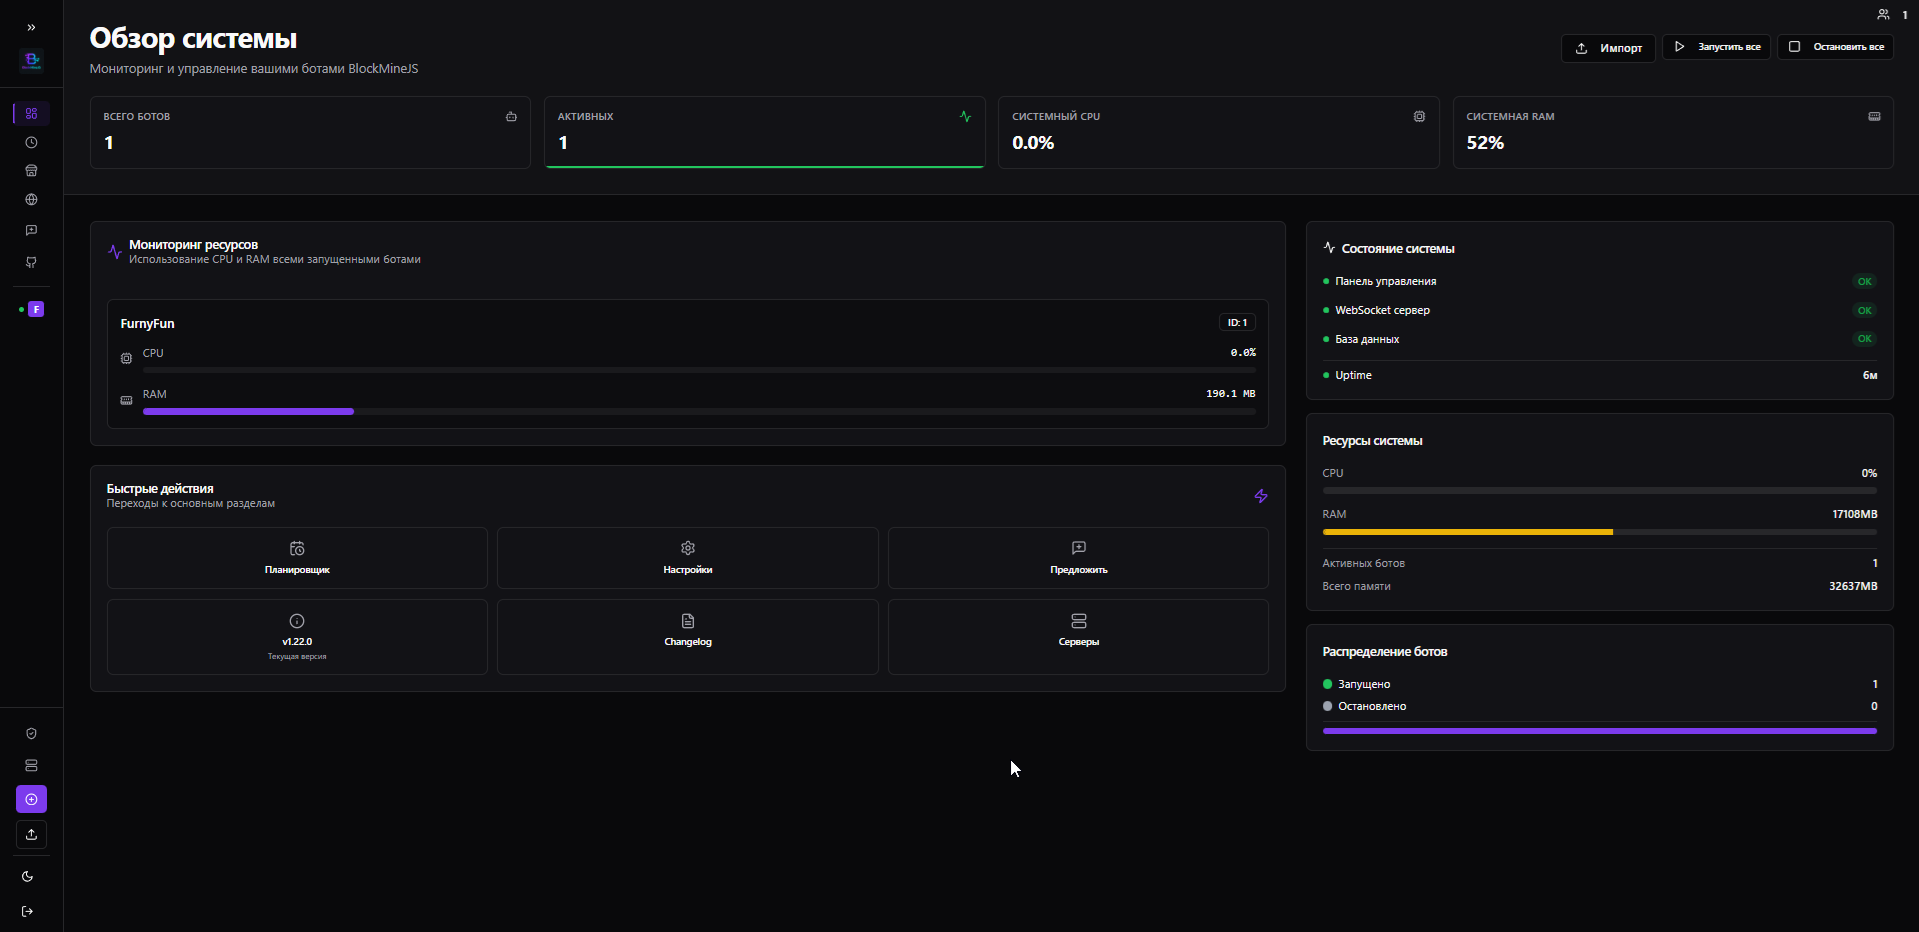
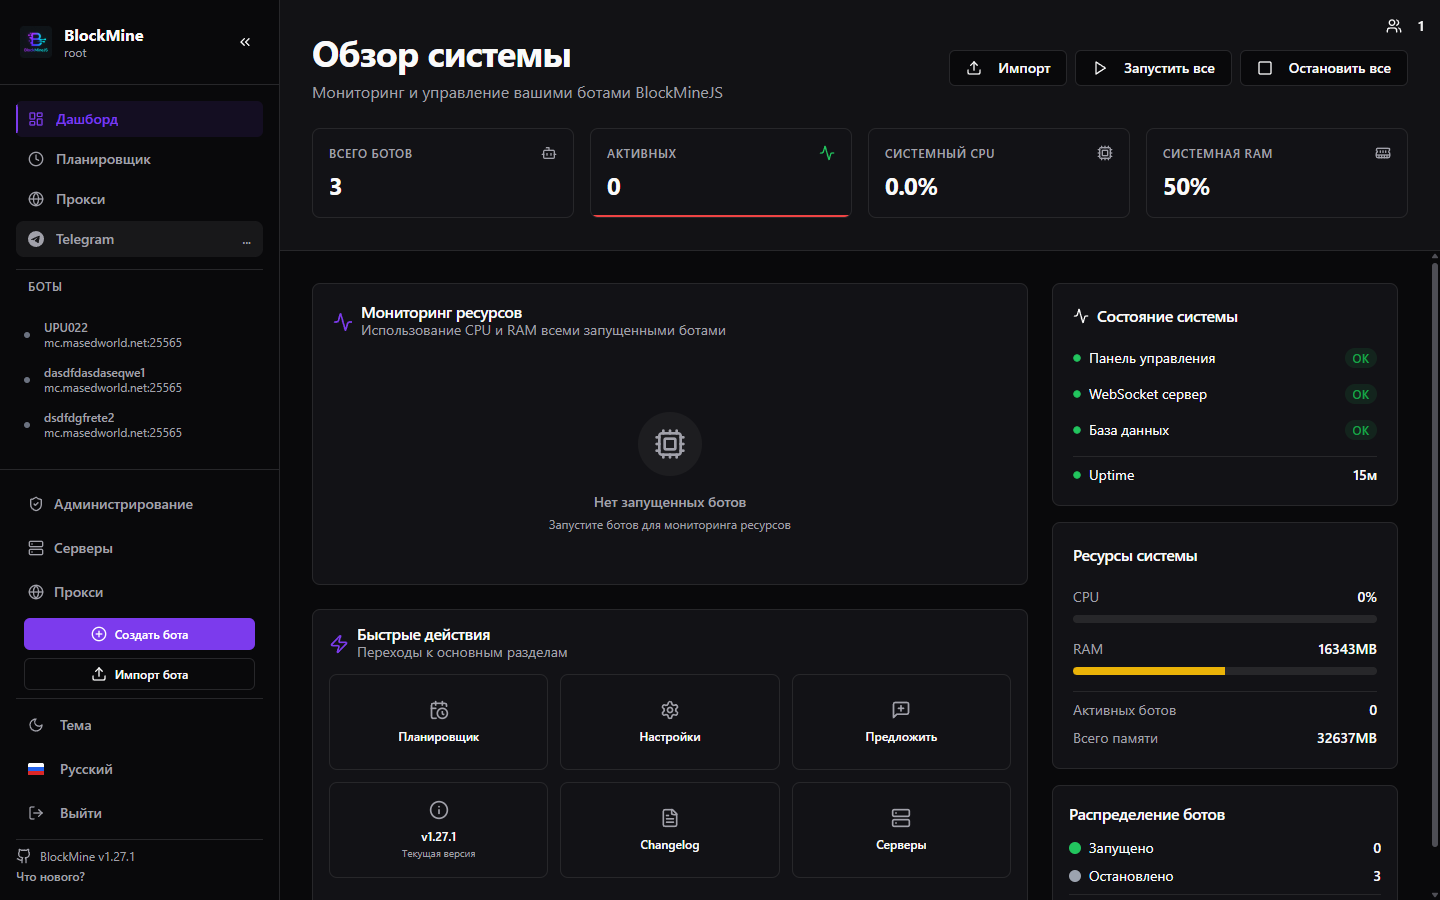
chore: реадми и прочее

diff --git a/README.md b/README.md
@@ -405,63 +405,57 @@ npm run dev
 - **Фронтенд** с горячей перезагрузкой будет доступен на `http://localhost:5173`
 
 
-## 📸 Скриншоты
+## Скриншоты
+
 
 <table align="center">
   <tr>
     <td align="center">
-      <p><strong>📊 Дашборд</strong></p>
-      <img src="./screen/dashboard.png" alt="Dashboard" width="100%">
-      <em>Мониторинг ресурсов и управление всеми ботами в реальном времени</em>
+      <p><strong>Дашборд</strong></p>
+      <img src="./screen/dashboard.png" alt="Дашборд" width="100%">
+      <em>Статус ботов, CPU и RAM</em>
     </td>
   </tr>
   <tr>
     <td align="center">
-      <p><strong>🌍 3D Viewer</strong></p>
-      <img src="./screen/3dviewer.png" alt="3D Viewer" width="100%">
-      <em>Просмотр мира Minecraft глазами бота в реальном времени</em>
+      <p><strong>Каталог плагинов</strong></p>
+      <img src="./screen/plugins-store.png" alt="Каталог плагинов" width="100%">
+      <em>Установка из каталога, с GitHub или локально</em>
     </td>
   </tr>
   <tr>
     <td align="center">
-      <p><strong>🔌 WebSocket API</strong></p>
-      <img src="./screen/websocket.png" alt="WebSocket" width="100%">
-      <em>Интерактивная панель для работы с WebSocket API</em>
+      <p><strong>Установленные плагины</strong></p>
+      <img src="./screen/plugins.png" alt="Установленные плагины" width="100%">
+      <em>Включение, настройки и команды плагина</em>
     </td>
   </tr>
   <tr>
     <td align="center">
-      <p><strong>👥 Совместная работа над графами</strong></p>
-      <img src="./screen/graph_collabe.png" alt="Collaboration" width="100%">
-      <em>Несколько разработчиков могут работать над одним графом одновременно</em>
+      <p><strong>Редактор плагина</strong></p>
+      <img src="./screen/ide.png" alt="Редактор плагина" width="100%">
+      <em>Файлы, Monaco и терминал на машине, где крутится панель</em>
     </td>
   </tr>
   <tr>
     <td align="center">
-      <p><strong>💻 Интерактивная консоль</strong></p>
-      <img src="./screen/console.png" alt="Console" width="100%">
-      <em>Полноценная консоль бота с цветной подсветкой и историей команд</em>
+      <p><strong>Команды</strong></p>
+      <img src="./screen/management.png" alt="Команды бота" width="100%">
+      <em>Алиасы, права и источник команды</em>
     </td>
   </tr>
   <tr>
     <td align="center">
-      <p><strong>⚙ Управление командами</strong></p>
-      <img src="./screen/management_command.png" alt="Command Management" width="100%">
-      <em>Централизованное управление командами с алиасами и правами доступа</em>
+      <p><strong>3D-просмотр</strong></p>
+      <img src="./screen/3dviewer.png" alt="3D-просмотр" width="100%">
+      <em>Мир глазами бота</em>
     </td>
   </tr>
   <tr>
     <td align="center">
-      <p><strong>🎛 Настройки команд</strong></p>
-      <img src="./screen/настройки_отдельных_команд_кажду_команлду_можно_настраивать.png" alt="Command Settings" width="100%">
-      <em>Гибкая настройка каждой команды: алиасы, кулдауны, права и разрешенные чаты</em>
-    </td>
-  </tr>
-  <tr>
-    <td align="center">
-      <p><strong>⏰ Планировщик задач</strong></p>
-      <img src="./screen/планировщик_можно_задавать_действия_по_времени.png" alt="Scheduler" width="100%">
-      <em>Автоматизируйте действия ботов с помощью cron-расписаний</em>
+      <p><strong>Отладка графа</strong></p>
+      <img src="./screen/graph_live_debug.png" alt="Отладка графа" width="100%">
+      <em>Брейкпоинт и значения нод</em>
     </td>
   </tr>
 </table>

diff --git a/README.en.md b/README.en.md
@@ -402,63 +402,58 @@ npm run dev
 - **Frontend** with hot reloading will be available at `http://localhost:5173`
 
 
-## 📸 Screenshots
+## Screenshots
+
+Captured from the v1.27.1 panel.
 
 <table align="center">
   <tr>
     <td align="center">
-      <p><strong>📊 Dashboard</strong></p>
+      <p><strong>Dashboard</strong></p>
       <img src="./screen/dashboard.png" alt="Dashboard" width="100%">
-      <em>Resource monitoring and managing all bots in real-time</em>
+      <em>Bot status, CPU and RAM</em>
     </td>
   </tr>
   <tr>
     <td align="center">
-      <p><strong>🌍 3D Viewer</strong></p>
-      <img src="./screen/3dviewer.png" alt="3D Viewer" width="100%">
-      <em>Real-time Minecraft world view through bot's eyes</em>
+      <p><strong>Plugin catalog</strong></p>
+      <img src="./screen/plugins-store.png" alt="Plugin catalog" width="100%">
+      <em>Install from the catalog, GitHub, or a local folder</em>
     </td>
   </tr>
   <tr>
     <td align="center">
-      <p><strong>🔌 WebSocket API</strong></p>
-      <img src="./screen/websocket.png" alt="WebSocket" width="100%">
-      <em>Interactive panel for working with WebSocket API</em>
+      <p><strong>Installed plugins</strong></p>
+      <img src="./screen/plugins.png" alt="Installed plugins" width="100%">
+      <em>Enable, configure, and see the commands a plugin adds</em>
     </td>
   </tr>
   <tr>
     <td align="center">
-      <p><strong>👥 Collaborative Graph Editing</strong></p>
-      <img src="./screen/graph_collabe.png" alt="Collaboration" width="100%">
-      <em>Multiple developers can work on the same graph simultaneously</em>
+      <p><strong>Plugin editor</strong></p>
+      <img src="./screen/ide.png" alt="Plugin editor" width="100%">
+      <em>Files, Monaco and a terminal on the machine that runs the panel</em>
     </td>
   </tr>
   <tr>
     <td align="center">
-      <p><strong>💻 Interactive Console</strong></p>
-      <img src="./screen/console.png" alt="Console" width="100%">
-      <em>Full-featured bot console with color highlighting and command history</em>
+      <p><strong>Commands</strong></p>
+      <img src="./screen/management.png" alt="Bot commands" width="100%">
+      <em>Aliases, permissions and where each command comes from</em>
     </td>
   </tr>
   <tr>
     <td align="center">
-      <p><strong>⚙ Command Management</strong></p>
-      <img src="./screen/management_command.png" alt="Command Management" width="100%">
-      <em>Centralized command management with aliases and access rights</em>
+      <p><strong>3D view</strong></p>
+      <img src="./screen/3dviewer.png" alt="3D view" width="100%">
+      <em>The world through the bot, once it is online</em>
     </td>
   </tr>
   <tr>
     <td align="center">
-      <p><strong>🎛 Command Settings</strong></p>
-      <img src="./screen/настройки_отдельных_команд_кажду_команлду_можно_настраивать.png" alt="Command Settings" width="100%">
-      <em>Flexible configuration for each command: aliases, cooldowns, permissions, and allowed chats</em>
-    </td>
-  </tr>
-  <tr>
-    <td align="center">
-      <p><strong>⏰ Task Scheduler</strong></p>
-      <img src="./screen/планировщик_можно_задавать_действия_по_времени.png" alt="Scheduler" width="100%">
-      <em>Automate bot actions with cron schedules</em>
+      <p><strong>Graph debug</strong></p>
+      <img src="./screen/graph_live_debug.png" alt="Graph debug" width="100%">
+      <em>A breakpoint and the values on the nodes</em>
     </td>
   </tr>
 </table>
